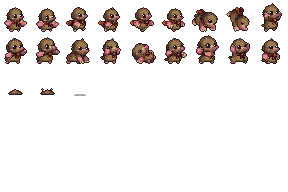
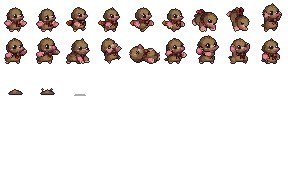
Naïl 맞음·쓰러짐 칸을 영상에서(nail_v5_fall.png)
- 맞음 = 뒤로 밀려나며 눈을 꼭 감는 칸, 쓰러짐 = 등을 대고 누운 칸(시트 A의 두 칸 대신)
- 맞음 칸은 든 발이 목도리를 가려 목 자리를 적어 준다(NECK), 감은 눈은 도장
- 16:9 첫 칸으로 받으니 카메라·비율이 지켜졌다(0308)

Changed region(s): [[0.3438, 0.1875, 0.5625, 0.3438]]

diff --git a/tools/art/nail_ai.py b/tools/art/nail_ai.py
@@ -356,9 +356,16 @@ _V5_W = {
 # ✦를 지우고 바탕을 순수 마젠타로 정리한 띠. 솟구치는 칸(11~19)은 쓰지 않는다 — 몸이 정면으로 돌고 길게 늘어나 다른 동물이 됐다(0308).
 SHEET_V5_DIVE = SPRITES / "nail_v5_dive.png"
 _V5_D = {"dive_ref": (120, 21, 440, 360), "dive_a": (801, 51, 1144, 360), "dive_b": (1439, 13, 1754, 357)}
+# 맞음 → 쓰러짐 영상(GIF 30칸, 16:9 첫 칸으로 받아 카메라가 안 움직였다)에서: 0(서기 — 배율 기준), 12(뒤로 밀려나며 눈을 꼭 감음), 25(등을 대고 누움).
+# 영상이 그려 넣은 흰 충격 효과가 있는 칸(5~7)은 피했다.
+SHEET_V5_FALL = SPRITES / "nail_v5_fall.png"
+_V5_F = {"fall_ref": (186, 73, 378, 313), "hurtg": (793, 68, 1013, 315), "deadg": (1391, 168, 1666, 334)}
 # 머리가 위에 있지 않은 칸은 `shrink_head`가 머리 띠를 못 찾는다. 파고들기는 기준 칸(dive_ref)도 줄이지 않는다 — 줄이면 배율이
 # 커져 줄지 않은 머리가 더 커진다(머리 +18%). 그대로 두면 온몸 크기가 맞고 머리 +7%·몸 −9%쯤(0.1초 스치는 칸이라 받아들인다).
-NO_SHRINK = {"dead", "dive_ref", "dive_a", "dive_b"}
+NO_SHRINK = {"dead", "deadg", "dive_ref", "dive_a", "dive_b"}
+# 목도리가 가려 머리 띠를 못 찾는 칸은 목 자리를 적어 준다: 칸 상자 안의 (목 줄 y, 목 가운데 x), 원본 px.
+# 맞음 칸(hurtg)은 든 두 발이 목도리를 가린다 — 발도 머리 띠 안이라 같이 줄어든다.
+NECK = {"hurtg": (150, 125)}
 SPEC_V5 = Spec(
     sources=[
         Source(SHEET_V5_A, _V5_A, groups=dict.fromkeys(_V5_A, "idle_a"), tidy=0.15, strip=6),
@@ -367,6 +374,7 @@ SPEC_V5 = Spec(
         # 영상은 그린 크기가 또 다르다(키 약 250px) → 첫 칸의 키로. 외곽선이 가늘어(≈4px) 덜 벗긴다.
         Source(SHEET_V5_WALK, _V5_W, groups=dict.fromkeys(_V5_W, "walkg_1"), tidy=0.15, strip=4),
         Source(SHEET_V5_DIVE, _V5_D, groups=dict.fromkeys(_V5_D, "dive_ref"), tidy=0.15, strip=3),
+        Source(SHEET_V5_FALL, _V5_F, groups=dict.fromkeys(_V5_F, "fall_ref"), tidy=0.15, strip=3),
     ],
     palette_ref=(0, "idle_a"),
     body_h=BODY_H_V5,
@@ -446,7 +454,7 @@ def stamp_face(spr, shines):
 
 # 감은 눈(사장 2026-11-27 "눈 감는 게 좀 어색하다"): 맞음·쓰러짐 칸은 원본의 가는 감은 눈 선이 줄이면 사라져 얼굴이 민둥해졌다.
 # 눈 자리(원본 그림 둘레 상자 기준 0..1, 원본을 보고 적은 값)에 읽히는 모양을 찍는다: 맞음 = 질끈 감은 ">", 쓰러짐 = "×".
-CLOSED_EYES = {"hurt": ((0.34, 0.30), ">"), "dead": ((0.24, 0.34), "x")}
+CLOSED_EYES = {"hurt": ((0.34, 0.30), ">"), "dead": ((0.24, 0.34), "x"), "hurtg": ((0.36, 0.30), ">"), "deadg": ((0.22, 0.38), "x")}
 _SHUT = {">": ((0, 0), (1, 0), (2, 1), (0, 2), (1, 2)), "x": ((0, 0), (2, 0), (1, 1), (0, 2), (2, 2))}
 
 
@@ -533,13 +541,16 @@ def shrink_head(k):
             fg = ~((r > 170) & (g < 110) & (b > 170))
             ys, xs = np.nonzero(fg)
             fy0, fx0, fx1 = ys.min(), xs.min(), xs.max() + 1
-            scarf = fg & (r > 140) & (g > 50) & (g < 150) & (b < 80) & (r - g > 50)
-            rows = np.nonzero(scarf.sum(1) >= 0.12 * (fx1 - fx0))[0]
-            rows = rows[rows > fy0 + (ys.max() - fy0) * 0.3]          # 머리 위쪽의 주황 점은 목도리가 아니다
-            if len(rows) == 0:
-                continue
-            neck = int(rows[0]) + 2                                    # 목도리 윗줄을 조금 덮게
-            cx = int(np.nonzero(scarf[rows[0]])[0].mean())
+            if name in NECK:
+                neck, cx = NECK[name]
+            else:
+                scarf = fg & (r > 140) & (g > 50) & (g < 150) & (b < 80) & (r - g > 50)
+                rows = np.nonzero(scarf.sum(1) >= 0.12 * (fx1 - fx0))[0]
+                rows = rows[rows > fy0 + (ys.max() - fy0) * 0.3]          # 머리 위쪽의 주황 점은 목도리가 아니다
+                if len(rows) == 0:
+                    continue
+                neck = int(rows[0]) + 2                                    # 목도리 윗줄을 조금 덮게
+                cx = int(np.nonzero(scarf[rows[0]])[0].mean())
             head = Image.fromarray(a[fy0:neck].astype(np.uint8), "RGB")
             nw, nh = max(1, round(head.width * k)), max(1, round(head.height * k))
             small = np.asarray(head.resize((nw, nh), Image.NEAREST)).astype(int)
@@ -569,7 +580,8 @@ def build_v5(walk="gif", lines=True, head=HEAD_V5):
     "gif" = 걷기 영상에서 뽑은 네 칸. `head` = 머리 배율(`shrink_head`)."""
     spr = convert(spec_v5(head))
     idle_img = None
-    for sheet, frames in ((SHEET_V5_A, _V5_A), (SHEET_V5_B, _V5_B), (SHEET_V5_WALK, _V5_W), (SHEET_V5_DIVE, _V5_D)):
+    for sheet, frames in ((SHEET_V5_A, _V5_A), (SHEET_V5_B, _V5_B), (SHEET_V5_WALK, _V5_W), (SHEET_V5_DIVE, _V5_D),
+                          (SHEET_V5_FALL, _V5_F)):
         img, _ = shrink_head(head)(np.asarray(Image.open(sheet).convert("RGB")).astype(int), frames)
         if sheet == SHEET_V5_A:
             idle_img = img
@@ -591,7 +603,7 @@ def build_v5(walk="gif", lines=True, head=HEAD_V5):
     rows = [
         [edge(fill_holes(seat(spr["idle_a"], CELL, FOOT))), edge(fill_holes(seat(spr["idle_b"], CELL, FOOT)))] + walk4
         + [sat("dive_a"), sat("dive_b"), sat("burst")],
-        [sat(k) for k in ("attack0", "attack1", "attack2", "hurt", "dead", "windup0", "windup1", "windup2", "settle")],
+        [sat(k) for k in ("attack0", "attack1", "attack2", "hurtg", "deadg", "windup0", "windup1", "windup2", "settle")],
         [small(legacy.MOUND_A), small(legacy.MOUND_B), small(legacy.SHADOW)],
     ]
     return rows

diff --git a/docs/phase-1-combat-prototype.md b/docs/phase-1-combat-prototype.md
@@ -172,7 +172,7 @@
 - [ ] 사람: 개발판에서 텃밭 결(값·자라는 속도·칸 자리·화단 꽃·바탕 들꽃 그림 결) 확인 → v1.1 닫기·배포 시점
 - [x] 리팩터링 0307 1단계: R41(마을 상태 = `village::State::of`, 재주를 깨우거나 발자국 반딧불을 받은 뒤 우물 반딧불이 바로 따라옴)·R43(저장은 `App::write_profile` 한 곳 — 꾸미기·큰 나무·발자국 보상에서도 그 자리에서 업적)
 - [x] 리팩터링 0307 2단계: 화면 기준선이 같은 그림을 내게(가짜 시계 `pauseAt`·확인용 줄 난수 고정), R45(`draw_sorted` 단계)·R44(이웃의 몸 하나)·R42(마을 창 = 줄 표 하나 + `VillageUi` + 한마디의 기분) — 기준선 66장으로 견줌. 겉으로 바뀐 것은 텃밭에서 심거나 거둔 뒤 포포가 웃는 것 하나
-- [x] Naïl v5(0308, 사장 2026-11-27): 초상화 얼굴에서 다시 받은 시트 둘 + 걷기 영상 네 칸, 칸 28 → 32, 눈 도장·감은 눈·물들인 외곽선·안쪽 선, 머리 0.85배(포포와 나란히), 땅 단면 그림의 털색 맞춤, 파고들기 두 칸(영상)·솟구치기 칸(시트 B). **사장 확인 전**(머리 배율·외곽선). 공식 페이지·상점 그림은 v1.1 낼 때 다시 찍는다
+- [x] Naïl v5(0308, 사장 2026-11-27): 초상화 얼굴에서 다시 받은 시트 둘 + 걷기 영상 네 칸, 칸 28 → 32, 눈 도장·감은 눈·물들인 외곽선·안쪽 선, 머리 0.85배(포포와 나란히), 땅 단면 그림의 털색 맞춤, 파고들기 두 칸(영상)·솟구치기 칸(시트 B)·맞음과 쓰러짐(영상). **사장 확인 전**(머리 배율·외곽선). 공식 페이지·상점 그림은 v1.1 낼 때 다시 찍는다
 - [ ] 리팩터링 0307 3단계(R46 `world.rs` 나누기): PR #30이 Merge된 뒤, 동작을 안 바꾸는 옮기기만 작은 걸음으로(사장 2026-11-27 "합치고 하자, 임팩트가 적은 방향으로"). R47(`App` 상태 묶음)은 미룸
 - [x] 판정 1차 반영(사장 2026-11-27, 설문 페이지 — 0307 "판정 1차"): 우물 반딧불이 보이게·돌 우물은 길을 막는다·갈대 피리 소리 줄이기·등불과 텃밭 탭의 설명 자리·오른쪽 위 글자·포포 초상화 테두리·확인용 줄 이름
 - [ ] 사람: 판정 2차(설문 페이지) — 고친 것 확인 여섯, 정할 것 다섯(그림 바꾸기·등불의 뜻·흔적 거리·물웅덩이·초상화 테두리). 그림을 새로 받는다면 `docs/art/hub-sprite-prompts.md` 시트 E1~E4(이웃 등불·샘 그릇·갈대 피리부터)

diff --git a/docs/decisions/0308-nail-v5-sprite.md b/docs/decisions/0308-nail-v5-sprite.md
@@ -46,6 +46,14 @@
 - 이 클립에서 배운 것: 첫 칸 그림이 정사각형이면 16:9 영상이 발을 잘라 놓고 시작해 카메라가 물러난다(크기가 칸마다 달라진다) → 첫 칸은 16:9로.
   "튀어 오른다"처럼 몸을 펴는 동작은 모델이 비율까지 바꾼다 — 옆모습 유지·비율 유지를 글로 못 박거나, 그런 칸은 시트로 받는 편이 낫다.
 
+## 맞음·쓰러짐 칸(같은 날 더함)
+둘째 클립(맞음 → 쓰러짐, 16:9 첫 칸으로 받음): 카메라가 안 움직이고 비율도 지켜졌다 — 첫 칸을 16:9로 주고 "옆모습·비율 유지"를 적은 것이 들었다.
+영상이 흰 충격 효과를 그려 넣은 칸(5~7)만 피하면 된다("no impact effects"라고 적어도 그린다).
+- 맞음 = 칸 12(뒤로 밀려나며 눈을 꼭 감고 한 발이 뜬다), 쓰러짐 = 칸 25(등을 대고 누움) → `nail_v5_fall.png`, 줄 1의 맞음·쓰러짐 자리.
+  시트 A의 두 칸(선 채로 움찔·웅크려 누움)보다 밀려나고 넘어진 것이 읽힌다. 시트 A의 칸은 원본에 그대로 있다(`hurt`·`dead`).
+- 맞음 칸은 든 두 발이 목도리를 가려 머리 띠를 못 찾는다 → 목 자리를 적어 준다(`NECK`). 감은 눈은 두 칸 다 도장(`CLOSED_EYES`).
+- 쓰러지는 중간 칸(14~19)은 쓰지 않았다: 게임의 쓰러짐 상태에 시간이 없어, 넣으려면 그리는 쪽에 시계를 더해야 한다(그림만 바꾸는 일이 아니다).
+
 ## 다른 캐릭터에도 되나(사장 "다른 캐릭터들도 … 다 예뻐질지 확인해 보자")
 같은 두 기법(외곽선 물들이기·안쪽 선)을 지금 시트에 입혀 봤다 — **거의 달라지지 않는다**.
 - 모모·도토·포포·콩이·보리는 이미 32~40칸이라 원본의 선이 살아 있다. 외곽선을 물들이면 조금 부드러워질 뿐이다

diff --git a/docs/art/redo-nail-kongi-tree-prompts.md b/docs/art/redo-nail-kongi-tree-prompts.md
@@ -259,4 +259,5 @@ Row 3: (1) settle: paws coming back down to the sides; (2) diving into the groun
   게임 크기 스프라이트를 크게 키운 "자" 그림 옆에 그리게 해야 한다(글로 크기를 말하면 두 배쯤 잘게 온다고 한다) — 아직 해 보지 않았다.
 - 맞음·쓰러짐 칸은 감은 눈(`stamp_shut`), 머리는 `HEAD_V5` 0.85배(`shrink_head`), 걷기는 영상 네 칸 — 2026-11-27 개발판에 넣었다(칸 32, docs/decisions/0308).
 - 파고들기는 영상(GIF 30칸)에서 두 칸(`nail_v5_dive.png`), 솟구치기는 시트 B의 칸 — 영상의 솟는 칸은 비율이 달라져 쓰지 않았다(0308 "파고들기·솟구치기 칸").
+- 맞음·쓰러짐도 영상에서(`nail_v5_fall.png`, 칸 12·25) — 16:9 첫 칸 + "옆모습·비율 유지" 한 줄을 붙여 받으니 카메라·비율이 지켜졌다.
 
